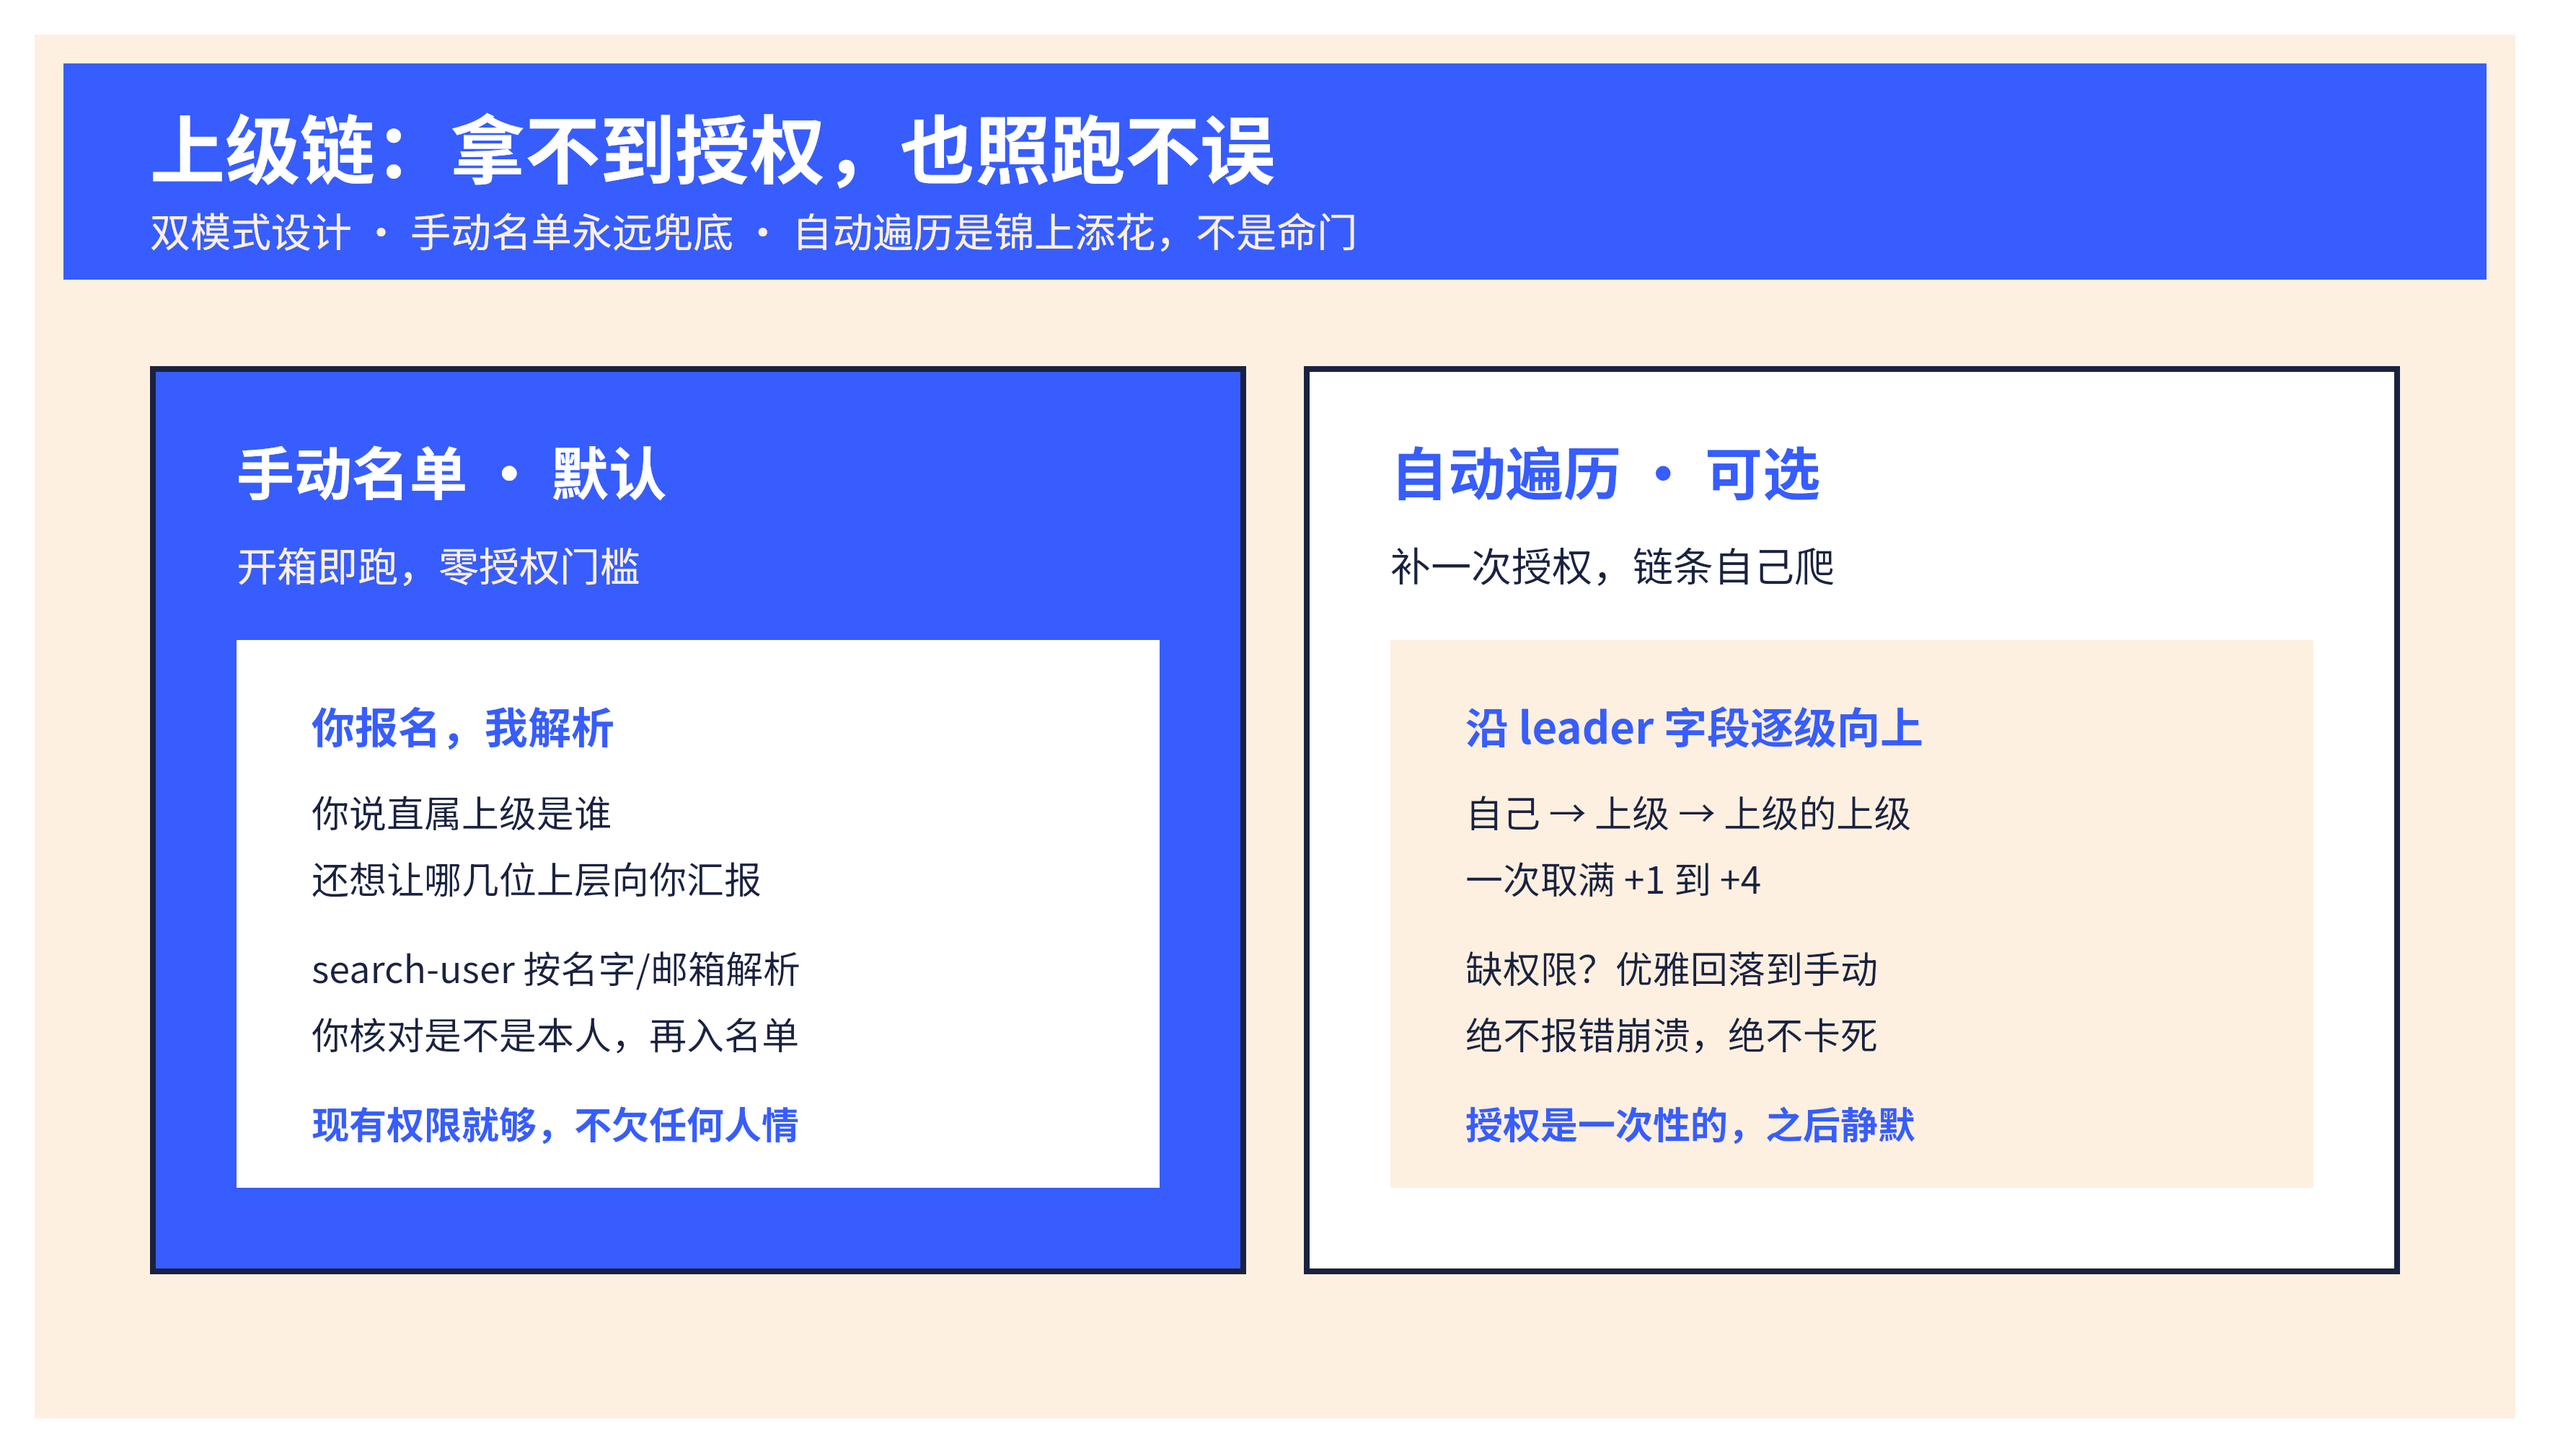
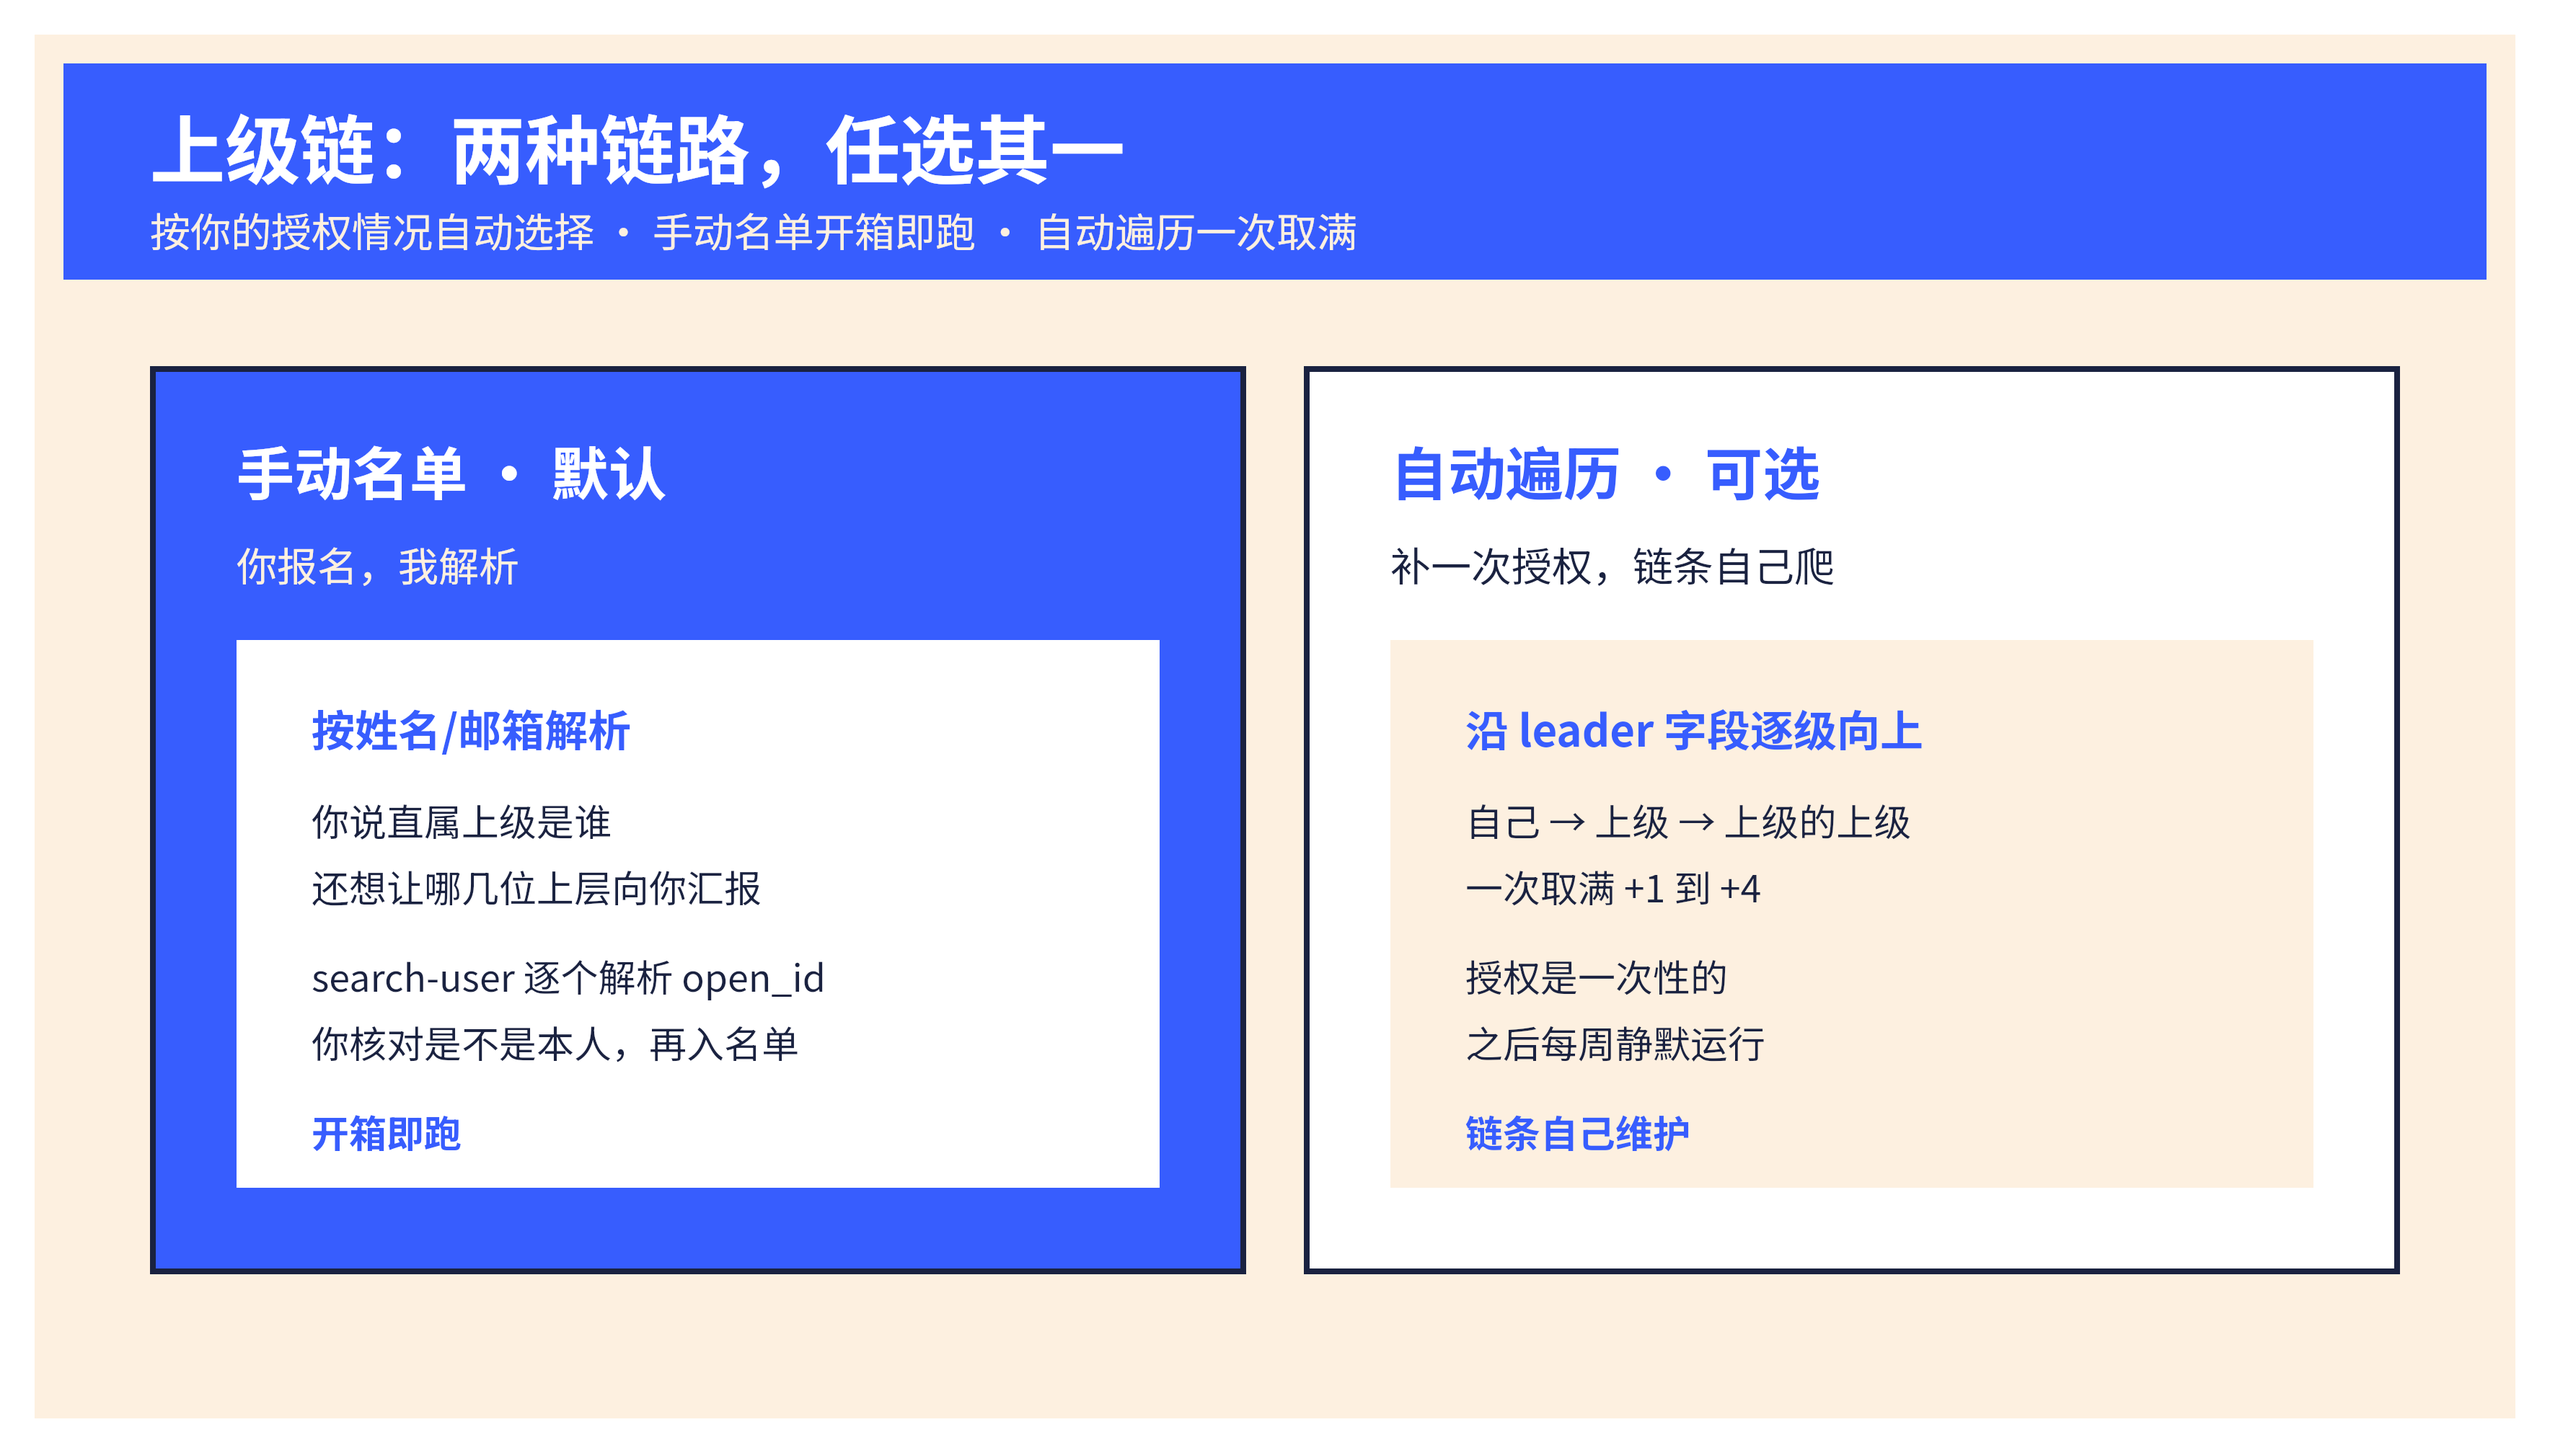
引句移至标题下居中；上级链改为中性表述并重画画板

diff --git a/README.md b/README.md
@@ -1,6 +1,6 @@
-> 领导，请向我汇报！
-
 <h1 align="center">老板向我汇报 · Boss Reports To Me</h1>
+
+<p align="center"><strong>领导，请向我汇报！</strong></p>
 
 <p align="center">
   <img src="https://img.shields.io/badge/Agent%20Skill-agentskills.io-2F6BFF" alt="Agent Skill">
@@ -44,16 +44,16 @@
 | **文档** | 按 owner 捞本周新建/改动，内存里按时间精确回裁 | 剔除导入批量噪声，只留真实撰写 |
 | **纪要** | 妙记 + 会议记录，按 owner/参会人捞，路由到正文取内容 | AI 摘要不当事实，缺一手佐证就停手 |
 
-## 上级链：拿不到授权，也照跑不误
+## 上级链：支持两种链路获取上级信息
 
-组织架构向上遍历是这个 skill 唯一的硬骨头。它用**双模式**啃下来，手动名单永远兜底。
+组织架构向上遍历，支持两种链路，按你的授权情况自动选择。
 
 <p align="center">
-  <img src="assets/leader-chain.png" alt="上级链双模式：手动名单默认零授权即跑，自动遍历可选补授权后逐级向上取四层" />
+  <img src="assets/leader-chain.png" alt="上级链两种链路：手动名单按姓名解析，自动遍历沿组织架构逐级向上取四层" />
 </p>
 
-- **手动名单（默认）**：首次安装直接问你——直属上级是谁？还想让哪几位上层向你汇报？逐个用 `contact +search-user` 按姓名/邮箱解析成 open_id，你核对是不是本人，再入名单。**现有权限就够，零授权门槛，开箱即跑。**
-- **自动遍历（可选）**：愿意补一次 `contact:contact.base:readonly` 授权，就能沿 `leader_open_id` 逐级向上一次取满 +1 到 +4。缺权限时**优雅回落**到手动模式，绝不报错崩溃。授权是一次性的，之后静默。
+- **手动名单（默认）**：首次安装直接问你——直属上级是谁？还想让哪几位上层向你汇报？逐个用 `contact +search-user` 按姓名/邮箱解析成 open_id，你核对是不是本人，再入名单。开箱即跑。
+- **自动遍历（可选）**：补一次 `contact:contact.base:readonly` 授权后，沿 `leader_open_id` 逐级向上一次取满 +1 到 +4。授权是一次性的，之后静默运行。
 
 ## 周报长这样：幕僚四段
 
